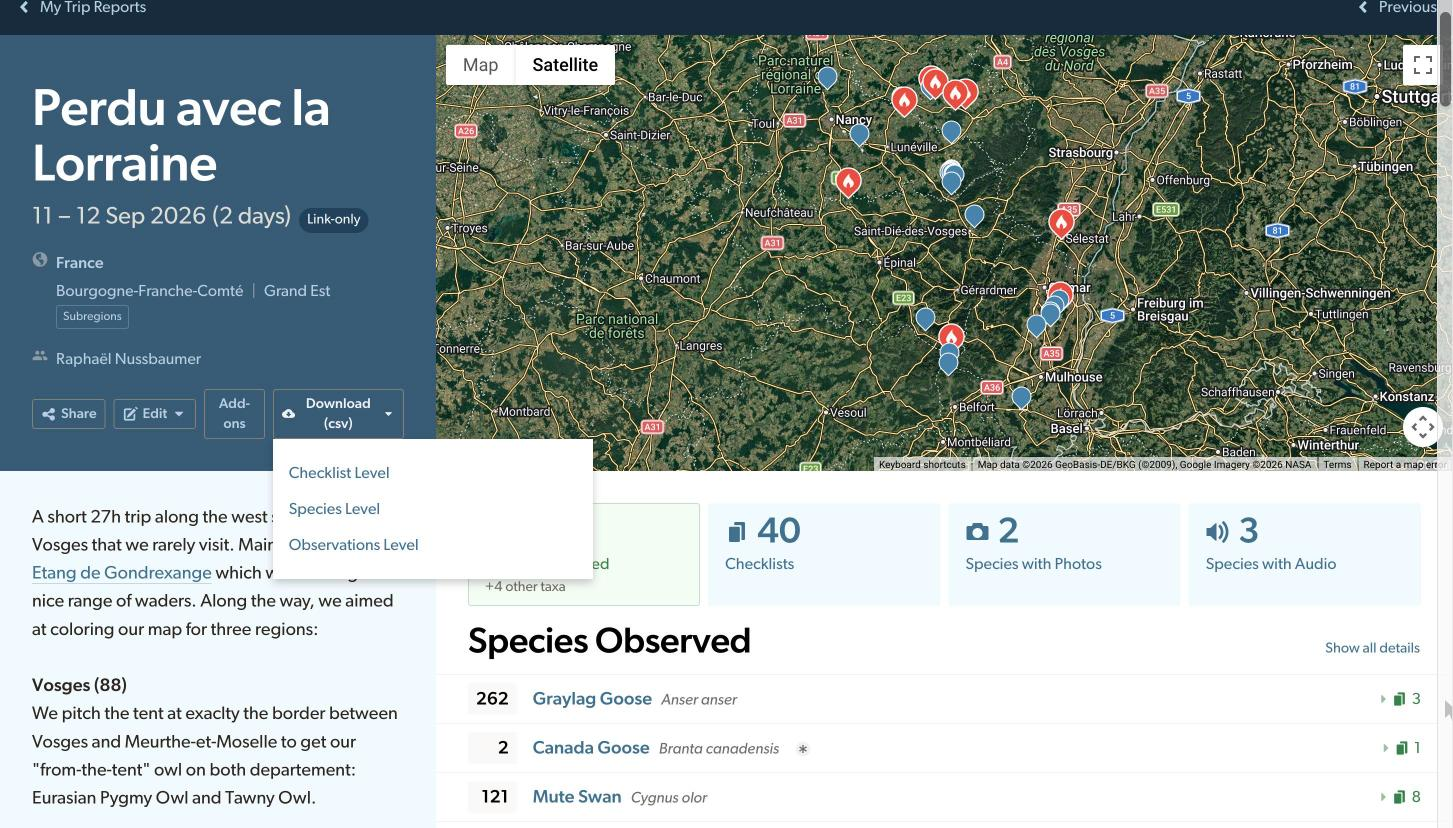
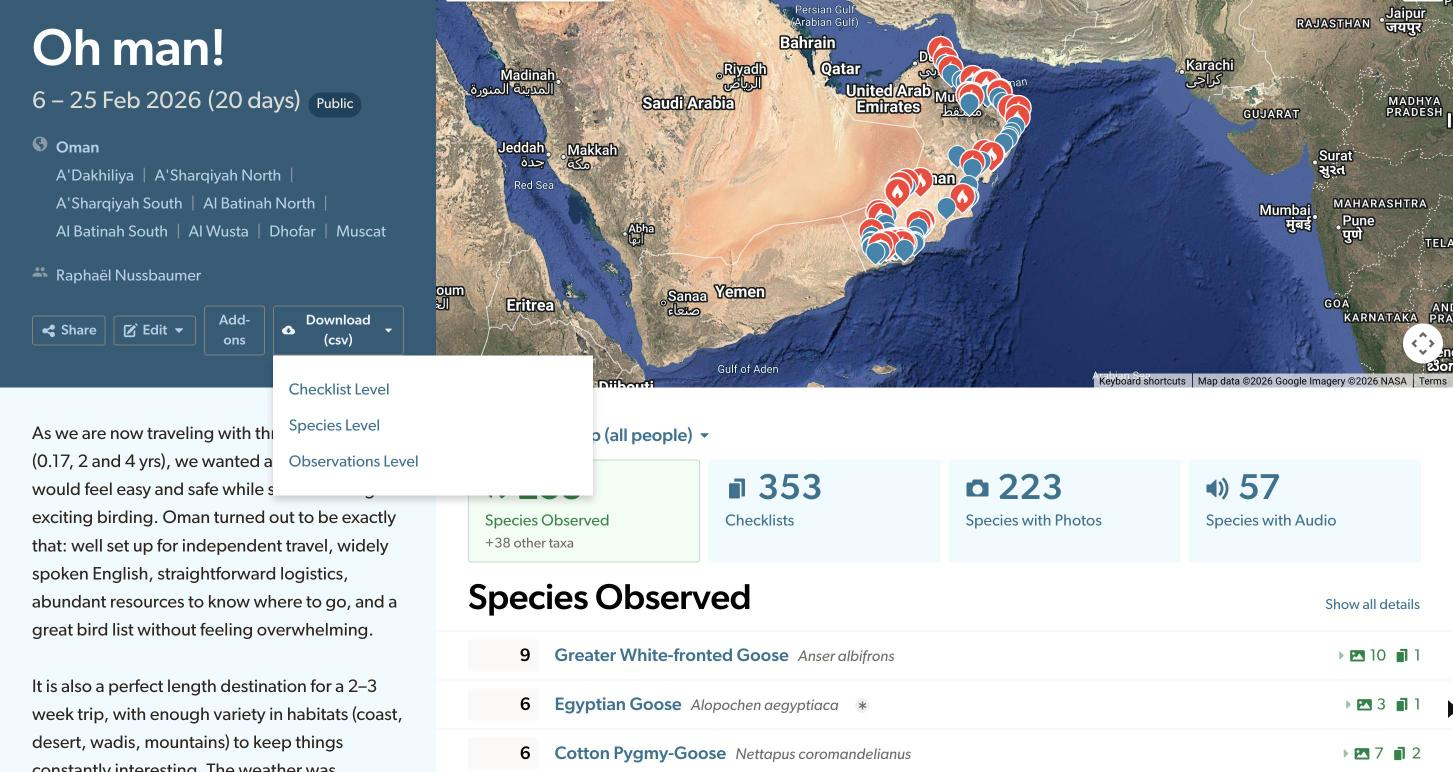
Store images: Oman trip, Hoopoe photo, bar chart menu scene and promo tiles

diff --git a/.claude/skills/store-screenshots/SKILL.md b/.claude/skills/store-screenshots/SKILL.md
@@ -1,11 +1,11 @@
 ---
 name: store-screenshots
-description: Recreate the 1280×800 store screenshots of Zoziologie Web Tools (Chrome Web Store, Firefox Add-ons, README) after a release. Use when asked to update, redo or refresh the screenshots, store images or listing media.
+description: Recreate the store screenshots (1280×800) and Chrome Web Store promo tiles (440×280, 1400×560) of Zoziologie Web Tools for the Chrome Web Store, Firefox Add-ons and README. Use when asked to update, redo or refresh the screenshots, promo tiles, store images or listing media.
 ---
 
 # Store screenshots
 
-The images in `assets/store/` are built by `npm run screenshots` (`scripts/screenshots.mjs`) from raw page captures in `assets/raw/`. The toolbar menu is rendered from `popup/popup.html` by the script itself, so it always matches the code. The raw captures must come from the user's own signed-in Chrome: eBird and Macaulay Library show a bot check to automated browsers, and Targets, trip reports and bar charts need an eBird account.
+The images in `assets/store/` (five screenshots and two promo tiles) are built by `npm run screenshots` (`scripts/screenshots.mjs`) from raw page captures in `assets/raw/`. The toolbar menu is rendered from `popup/popup.html` by the script itself, so it always matches the code. The raw captures must come from the user's own signed-in Chrome: eBird and Macaulay Library show a bot check to automated browsers, and Targets, trip reports and bar charts need an eBird account.
 
 ## 1. Prepare
 
@@ -15,14 +15,17 @@ The images in `assets/store/` are built by `npm run screenshots` (`scripts/scree
 
 ## 2. Capture each raw image
 
-For every capture: wait until the page has settled, measure the extension's controls with `getBoundingClientRect()` (rounded `[x, y, width, height]`), move the pointer out of the kept area (the screenshot tool draws it; for scenes cropped from the left, hover at x ≈ viewport width − 8), then take a full-scale screenshot with `save_to_disk: true` (no `scale`). Copy the saved JPEG to `assets/raw/<name>.jpg`.
+For every capture: wait until the page has settled, measure the extension's controls with `getBoundingClientRect()` (rounded `[x, y, width, height]`), park the pointer where the crop will remove it, then take a full-scale screenshot with `save_to_disk: true` (never with `scale`, which saves a small image). Copy the saved JPEG to `assets/raw/<name>.jpg`.
 
-| Raw file | Page | Before capturing |
-| --- | --- | --- |
-| `ebird-targets.jpg` | `https://ebird.org/targets?r1=CH&bmo=1&emo=12&r2=world&t2=life` | Scroll to top. Measure the "Search regions" and "Download (csv)" buttons. |
-| `ebird-tripreport.jpg` | One of the user's trip reports from `https://ebird.org/mytripreports` (ask which; last time 570508) | Click the extension's "Download (csv)" button to open the menu, then measure the button plus the open panel together. |
-| `macaulay-photo.jpg` | One of the user's own Macaulay photos (avoids image-rights questions; last time ML664758856) | Scroll so the photo and the actions bar both show. Measure `#zoziologie-ml-download`. |
-| `biolovision-species.jpg` | `https://www.faune-france.org/index.php?m_id=94&p_c=duration&p_cc=-1&sp_tg=1&sp_DChoice=offset&sp_DOffset=3&sp_SChoice=all&sp_PChoice=all&sp_FChoice=species` | **Hide the user's name, email and avatar** in the header: walk text nodes for their name or `@` and set `visibility:hidden` on the parent, plus avatar images in the top-left corner. Check that `document.body.innerText` no longer contains them. Measure the Export row (`#zoziology-export` and its label). |
+The screenshot tool draws its own pointer (CSS `cursor: none` does not hide it). The crop removes a strip on one side when the capture is wider than 16:10: hover at x ≈ viewport width − 5 for scenes anchored `left top` or centred, and at x ≈ 5 for scenes anchored `right top`.
+
+| Raw file | Scene | Page | Before capturing |
+| --- | --- | --- | --- |
+| `ebird-barchart.jpg` | 1, toolbar menu (anchored `right top`) | `https://ebird.org/barchart?r=OM&bmo=1&emo=12&byr=1900&eyr=2026` | Scroll to top; pointer at the left edge. The menu drawn over it is rendered for the bar chart address set in `SCENES`. |
+| `ebird-targets.jpg` | 2 | `https://ebird.org/targets?r1=CH&bmo=1&emo=12&r2=world&t2=life` | Scroll to top. Measure "Search regions" and "Download (csv)". |
+| `ebird-tripreport.jpg` | 3 | The user's Oman trip report "Oh man!", `https://ebird.org/tripreport/468402` (the user's favourite; ask if they prefer another) | Click the extension's "Download (csv)" to open its menu, then measure the button and open panel together. **Hide co-participants** (the user's family, including children): set `display:none` on the items of `.ReportMetaPeople-list` that do not contain the user's name, and remove the list's `::after` commas with a style rule. |
+| `macaulay-photo.jpg` | 4, and the marquee tile | A striking photo by the user, currently the Common Hoopoe ML651847032 from the Oman trip | Scroll so the whole bird and the actions bar show (`scrollTo(0, 135)` last time). Measure `#zoziologie-ml-download`. To pick another photo, list `assetIds` from `/tripreport-internal/v1/taxon-detail/<trip>/<species>` and preview them from `https://cdn.download.ams.birds.cornell.edu/api/v2/asset/<id>/480`. |
+| `biolovision-species.jpg` | 5 | `https://www.faune-france.org/index.php?m_id=94&p_c=duration&p_cc=-1&sp_tg=1&sp_DChoice=offset&sp_DOffset=3&sp_SChoice=all&sp_PChoice=all&sp_FChoice=species` | **Hide the user's name, email and avatar** in the header: walk text nodes for their name or `@` and set `visibility:hidden` on the parent, plus avatar images in the top-left corner. Check that `document.body.innerText` no longer contains them. Measure the Export row. |
 
 Check every capture for personal data (email addresses, private notes) before using it; the trip report and Macaulay pages show the user's public name, which they accepted.
 
@@ -30,10 +33,11 @@ Check every capture for personal data (email addresses, private notes) before us
 
 1. Put the measured boxes into `highlight` of the matching entries in `SCENES` at the top of `scripts/screenshots.mjs`. Adjust `position` if the crop cuts something important (`left top` keeps the left edge).
 2. Run `npm run screenshots` (uses Google Chrome, or `CHROME_PATH`).
-3. Look at every file in `assets/store/`: highlights on the right controls, no pointer, nothing important cropped, no personal data.
+3. Look at every file in `assets/store/`: highlights on the right controls, no pointer, nothing important cropped, no personal data, and no two images built on the same page.
+4. The promo tiles (`promo-small.png` 440×280, `promo-marquee.png` 1400×560) are designed in `smallTile()` and `marqueeTile()`; the marquee frames scene 4. All outputs are 24-bit RGB without alpha, as the Chrome Web Store requires (`file assets/store/*.png` should say `RGB`).
 
 ## 4. Publish
 
 - **Firefox Add-ons:** with Claude in Chrome, open `https://addons.mozilla.org/en-US/developers/addon/zoziologie-web-tools/edit`, section Images/Media, remove outdated screenshots and upload the new ones (file inputs accept the paths directly). Confirm with the user before saving, since it changes the public listing.
-- **Chrome Web Store:** Chrome blocks every extension, and the app's built-in browser refuses Web Store pages, so the user uploads them: Store listing → Graphic assets → Screenshots (1280×800, up to 5).
+- **Chrome Web Store:** Chrome blocks every extension, and the app's built-in browser refuses Web Store pages, so the user uploads them: Store listing → Graphic assets → Screenshots (1280×800, up to 5), Small promo tile (`promo-small.png`) and Marquee promo tile (`promo-marquee.png`).
 - Commit `assets/raw/`, `assets/store/` and any `SCENES` changes.

diff --git a/DEVELOPMENT.md b/DEVELOPMENT.md
@@ -101,7 +101,7 @@ Load this folder using **Load unpacked** in `chrome://extensions` (or as a tempo
 
 ## Store screenshots
 
-`npm run screenshots` turns the captures in `assets/raw/` into the five 1280×800 images in `assets/store/` (Chrome Web Store, Firefox Add-ons and README). The toolbar menu image is rendered from `popup/popup.html` with stubbed browser APIs, so it follows the code. Each scene in `scripts/screenshots.mjs` sets its capture, the crop anchor and amber boxes around the extension's controls. The raw captures need a signed-in browser (eBird's bot check and account pages), so they are retaken by hand or by Claude following `.claude/skills/store-screenshots/SKILL.md`; ask Claude to "update the store screenshots".
+`npm run screenshots` turns the captures in `assets/raw/` into the five 1280×800 screenshots and the two Chrome Web Store promo tiles (440×280 and 1400×560) in `assets/store/`. The toolbar menu image is rendered from `popup/popup.html` with stubbed browser APIs, so it follows the code. Each scene in `scripts/screenshots.mjs` sets its capture, the crop anchor and amber boxes around the extension's controls. The raw captures need a signed-in browser (eBird's bot check and account pages), so they are retaken by hand or by Claude following `.claude/skills/store-screenshots/SKILL.md`; ask Claude to "update the store screenshots".
 
 ## Release
 
